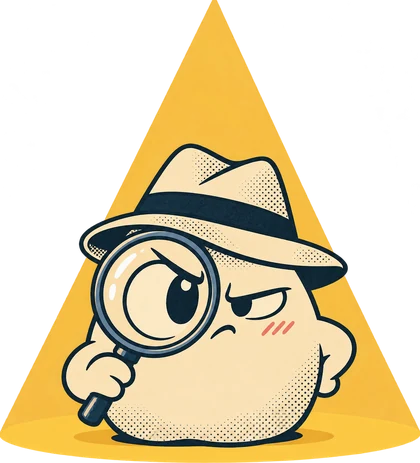
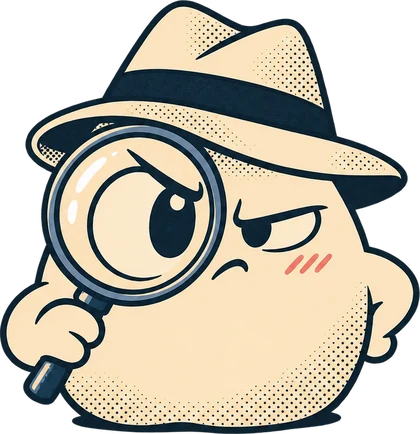
Imposterjakten: ljuskäglan söker över spelkortet och landar på detektiven

diff --git a/src/index.css b/src/index.css
@@ -293,9 +293,11 @@
        undantag från regeln om korta rörelser, och rörelsen slutar där den började. */
     --animate-tag-swing: tag-swing 1.2s ease-out;
     --animate-tag-roll: tag-roll 1.1s cubic-bezier(0.25, 0.7, 0.3, 1);
-    /* animate-detektiv: Imposterjaktens spelkort. Lampan blinkar till och tänds, och detektiven hajar till. Också ett
-       undantag från regeln om korta rörelser, som de andra spelkorten. */
-    --animate-detektiv: detektiv 0.9s ease-out;
+    /* Imposterjaktens spelkort: ljuskäglan söker över kortet och landar på detektiven (kagla-sok, käglan lutas från
+       lampan så att golvet ligger still), och detektiven står i dunklet tills ljuset landar och hajar då till
+       (detektiv). Också ett undantag från regeln om korta rörelser, och den spelas bara en gång åt gången. */
+    --animate-kagla-sok: kagla-sok 1.5s ease-in-out;
+    --animate-detektiv: detektiv 1.9s ease-out;
     /* Avslöjandet vid Imposterjaktens bord: rummet mörknar en stund (lights-out) och ljuskäglan tänds på impostern
        (spot-in). Med fördröjning (--d) så att rösterna hinner ritas först. */
     --animate-lights-out: lights-out 1.5s ease-in-out both;
@@ -620,13 +622,18 @@
         100% { opacity: 1; }
     }
 
+    @keyframes kagla-sok {
+        0% { transform: skewX(-31deg); }
+        30% { transform: skewX(-17deg); }
+        65% { transform: skewX(24deg); }
+        100% { transform: skewX(0deg); }
+    }
+
     @keyframes detektiv {
-        0% { opacity: 0.15; translate: 0 0; }
-        12% { opacity: 0.9; }
-        22% { opacity: 0.3; }
-        36% { opacity: 1; translate: 0 0; rotate: 0deg; }
-        55% { translate: 0 -5px; rotate: -3deg; }
-        75% { translate: 0 0; rotate: 2deg; }
+        0%, 74% { opacity: 0.5; translate: 0 0; rotate: 0deg; }
+        79% { opacity: 1; translate: 0 0; rotate: 0deg; }
+        86% { translate: 0 -5px; rotate: -3deg; }
+        94% { translate: 0 0; rotate: 2deg; }
         100% { opacity: 1; translate: 0 0; rotate: 0deg; }
     }
 

diff --git a/src/components/SpelKort.tsx b/src/components/SpelKort.tsx
@@ -74,14 +74,22 @@ const PREVIEWS: Record<string, ReactNode> = {
     </div>
   ),
   imposterjakten: (
-    // Detektiven i ljuskäglan (stilen Nattspanarna). Lampan blinkar till och tänds, och detektiven hajar till.
-    <img
-      src="/images/imposterjakten/spelkort-detektiv.webp"
-      alt=""
-      width={420}
-      height={463}
-      className="-mt-5 -mb-2 h-28 w-auto origin-bottom motion-safe:group-hover:animate-detektiv motion-safe:group-data-[play=true]:animate-detektiv"
-    />
+    // Detektiven i ljuskäglan (stilen Nattspanarna). Käglan ritas här i lampgult och söker över kortet innan den landar
+    // på detektiven, som står i dunklet så länge och hajar till när ljuset träffar. Utan rörelse står käglan på detektiven.
+    <svg viewBox="0 0 200 120" className="-mt-5 -mb-2 h-28 w-auto overflow-visible">
+      <path
+        d="M100 -44 L20 107 A80 11 0 0 0 180 107 Z"
+        className="origin-[100px_-44px] fill-[var(--natt-lampa)] motion-safe:group-hover:animate-kagla-sok motion-safe:group-data-[play=true]:animate-kagla-sok"
+      />
+      <image
+        href="/images/imposterjakten/spelkort-detektiv.webp"
+        x="53.5"
+        y="21"
+        width="93"
+        height="96"
+        className="origin-bottom [transform-box:fill-box] motion-safe:group-hover:animate-detektiv motion-safe:group-data-[play=true]:animate-detektiv"
+      />
+    </svg>
   ),
   tantpanik: (
     // Loggan till vänster och riktiga kortbilder i en liten solfjäder: två baksidor och den exploderande tanten överst.
@@ -252,7 +260,7 @@ const NATT_CARD_BACKGROUND = {
   backgroundSize: 'auto, 240px 240px',
 }
 
-// Så länge räknas animationen som igång. Spotlighten i Imposterjakten är längst.
+// Så länge räknas animationen som igång. Ljuskäglan i Imposterjakten är längst.
 const PLAY_MS = 2000
 
 // Illustrationens animation spelas en gång när kortet kommer in i bild, och på pekskärmar (utan hover) igen när man

diff --git a/scripts/imposterbilder.py b/scripts/imposterbilder.py
@@ -5,7 +5,8 @@ Läser originalen i docs/skisser/imposterjakten/ (ändras aldrig) och skriver We
 - logga.webp och logga-800.webp: loggan med genomskinlig bakgrund, beskuren till det som syns, i två storlekar.
 - monster-mork.webp: mönstret för väntrummet och bordet, på spelets marinblå.
 - monster-ljus.webp: mönstret för spelkortet på startsidan, på spelets krämvita.
-- spelkort-detektiv.webp: detektiven i ljuskäglan, bilden på spelkortet på startsidan.
+- spelkort-detektiv.webp: detektiven utan ljuskägla, beskuren till figuren, till spelkortet på startsidan (käglan ritas i
+  koden, så att den kan söka över kortet).
 - fallet-avslutat.webp och fallet-avslutat-720.webp: mappen med stämpeln, till slutskärmen.
 
 Mönstren är 512 × 512 och sömlösa. Originalen är det inte: figurer skärs av i kanterna och bakgrunden är inte helt
@@ -45,7 +46,7 @@ LOGO_PAD = 0.012
 # Genomskinliga bilder: originalet och målfilerna med bredd (px). De beskärs till det som syns (alfa över ALPHA_EDGE, så
 # att svagt skräp längs kanten inte räknas) och skalas ned.
 PICTURES = [
-    ('spelkort-detektiv.png', {'spelkort-detektiv.webp': 420}),
+    ('spelkort-detektiv-utan-kagla.png', {'spelkort-detektiv.webp': 420}),
     ('fallet-avslutat.png', {'fallet-avslutat.webp': 1200, 'fallet-avslutat-720.webp': 720}),
 ]
 ALPHA_EDGE = 40
